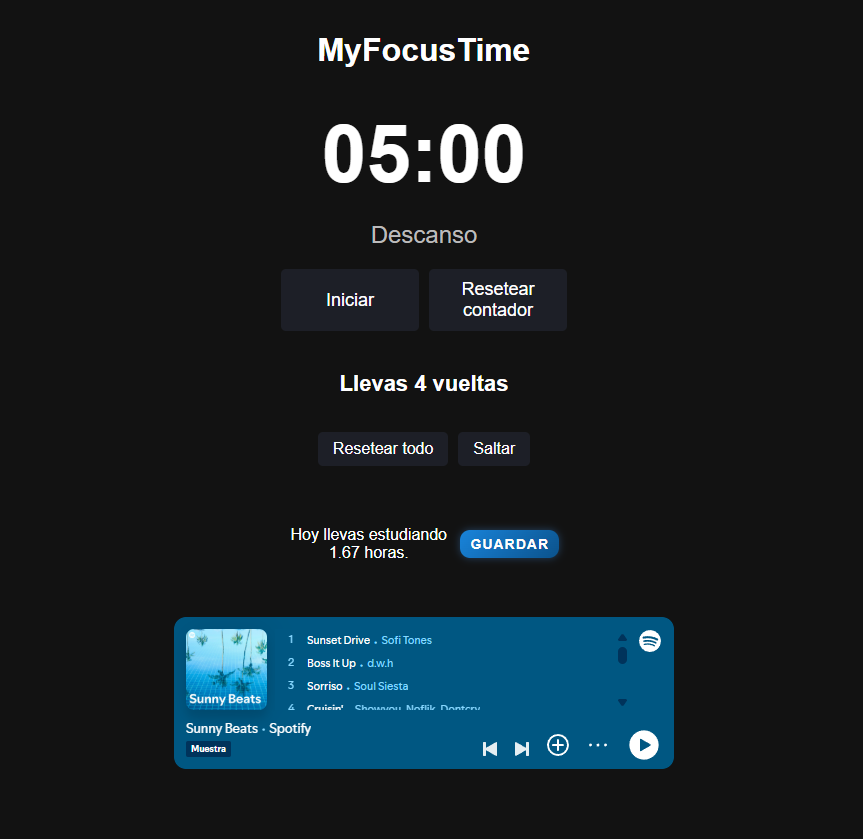
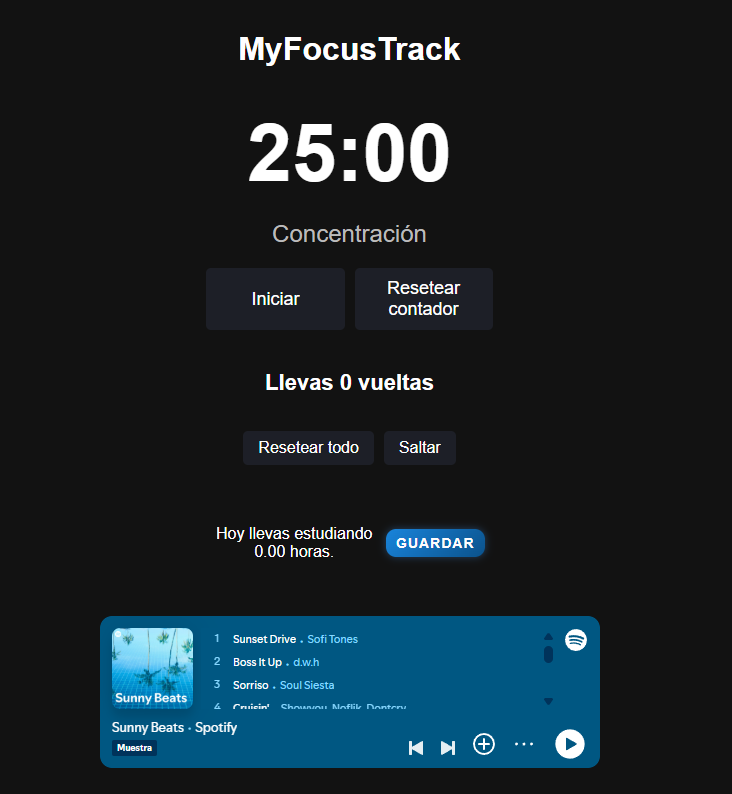
FIX: cambio de nombre

diff --git a/src/pages/pomodoro/pomodoro.html b/src/pages/pomodoro/pomodoro.html
@@ -3,11 +3,11 @@
 
 <head>
   <meta charset="UTF-8" />
-  <title>Pomodoro</title>
+  <title>MyFocusTrack</title>
   <link rel="stylesheet" href="./pomodoro.css">
   <script async src="https://pagead2.googlesyndication.com/pagead/js/adsbygoogle.js?client=ca-pub-7574523768529448"
     crossorigin="anonymous"></script>
-    <link rel="icon" href="../../assets/MyFocusTimeLogo.png">
+    <link rel="icon" href="../../assets/MyFocusTrackLogo.png">
 </head>
 
 <body class="pomodoro-page">
@@ -29,7 +29,7 @@
   </aside>
 
   <main>
-    <h1>MyFocusTime</h1>
+    <h1>MyFocusTrack</h1>
 
     <div class="timer-container">
       <div id="timer">50:00</div>
@@ -65,16 +65,16 @@
     <div class="info-block">
       <h2>Guardando tu tiempo de estudio</h2>
       <p>
-        🕒 Al guardar tu horario de estudio, puede tardar unos segundos.  
+         Al guardar tu horario de estudio, puede tardar unos segundos.  
     Esto sucede porque el servidor puede estar inactivo al momento.  
     Por favor, espera mientras se registra.  
     Te avisaremos cuando se haya guardado correctamente.
       </p>
     </div>
     <div class="info-block">
-      <h2>¿Qué es MyFocusTime?</h2>
+      <h2>¿Qué es MyFocusTrack?</h2>
       <p>
-        MyFocusTime es una aplicación de productividad basada en la técnica
+        MyFocusTrack es una aplicación de productividad basada en la técnica
         <strong>Pomodoro</strong>, pero con una diferencia clave:
         <strong>no solo te ayuda a concentrarte, sino que registra tus horas reales de estudio</strong>.
       </p>
@@ -83,7 +83,7 @@
     <div class="info-block">
       <h2>¿Qué la hace diferente?</h2>
       <p>
-        A diferencia de otras apps Pomodoro, MyFocusTime te permite
+        A diferencia de otras apps Pomodoro, MyFocusTrack te permite
         <strong>guardar y visualizar tu tiempo de estudio</strong> de forma clara:
       </p>
 
@@ -100,7 +100,7 @@
   </section>
   <footer class="app-footer">
     <div class="footer-content">
-      <span>© 2025 MyFocusTime</span>
+      <span>© 2025 MyFocusTrack</span>
       <span class="footer-sep">•</span>
       <span>Desarrollado por Guerra</span>
       <span class="footer-sep">•</span>

diff --git a/src/pages/login/login.html b/src/pages/login/login.html
@@ -4,17 +4,17 @@
 <head>
   <meta charset="UTF-8" />
   
-  <title>MyFocusTime</title>
+  <title>MyFocusTrack</title>
   <link rel="stylesheet" href="login.css">
   <script async src="https://pagead2.googlesyndication.com/pagead/js/adsbygoogle.js?client=ca-pub-7574523768529448"
     crossorigin="anonymous"></script>
-    <link rel="icon" href="../../assets/MyFocusTimeLogo.png">
+    <link rel="icon" href="../../assets/MyFocusTrackLogo.png">
 </head>
 
 <body>
 
   <main>
-    <h1>MyFocusTime</h1>
+    <h1>MyFocusTrack</h1>
     <section class="login-container">
       <h2>Iniciar Sesión</h2>
 
@@ -56,9 +56,9 @@
 
   <div class="info-block">
     <div class="info-text">
-      <h2>¿Qué es MyFocusTime?</h2>
+      <h2>¿Qué es MyFocusTrack?</h2>
       <p>
-        MyFocusTime es una aplicación de productividad basada en la técnica
+        MyFocusTrack es una aplicación de productividad basada en la técnica
         <strong>Pomodoro</strong>, pero con una diferencia clave:
         <strong>no solo te ayuda a concentrarte, sino que registra tus horas reales de estudio</strong>.
       </p>
@@ -72,7 +72,7 @@
   <div class="info-text">
     <h2>¿Qué la hace diferente?</h2>
     <p>
-      A diferencia de otras apps Pomodoro, MyFocusTime te permite
+      A diferencia de otras apps Pomodoro, MyFocusTrack te permite
       <strong>guardar y visualizar tu tiempo de estudio</strong> de forma clara:
     </p>
     <ul>
@@ -100,7 +100,7 @@
 
   <footer class="app-footer">
     <div class="footer-content">
-      <span>© 2025 MyFocusTime</span>
+      <span>© 2025 MyFocusTrack</span>
       <span class="footer-sep">•</span>
       <span>Desarrollado por Guerra</span>
       <span class="footer-sep">•</span>

diff --git a/src/pages/register/register.html b/src/pages/register/register.html
@@ -5,13 +5,13 @@
   <meta charset="UTF-8">
   <meta name="viewport" content="width=device-width, initial-scale=1.0">
   <link rel="stylesheet" href="register.css">
-  <link rel="icon" href="../../assets/MyFocusTimeLogo.png">
-  <title>MyFocusTime</title>
+  <link rel="icon" href="../../assets/MyFocusTrackLogo.png">
+  <title>MyFocusTrack</title>
 </head>
 
 <body>
   <main>
-    <h1>MyFocusTime</h1>
+    <h1>MyFocusTrack</h1>
     <section class="register-container">
       <h2>Crear Cuenta</h2>
 
@@ -60,9 +60,9 @@
 
   <div class="info-block">
     <div class="info-text">
-      <h2>¿Qué es MyFocusTime?</h2>
+      <h2>¿Qué es MyFocusTrack?</h2>
       <p>
-        MyFocusTime es una aplicación de productividad basada en la técnica
+        MyFocusTrack es una aplicación de productividad basada en la técnica
         <strong>Pomodoro</strong>, pero con una diferencia clave:
         <strong>no solo te ayuda a concentrarte, sino que registra tus horas reales de estudio</strong>.
       </p>
@@ -76,7 +76,7 @@
   <div class="info-text">
     <h2>¿Qué la hace diferente?</h2>
     <p>
-      A diferencia de otras apps Pomodoro, MyFocusTime te permite
+      A diferencia de otras apps Pomodoro, MyFocusTrack te permite
       <strong>guardar y visualizar tu tiempo de estudio</strong> de forma clara:
     </p>
     <ul>
@@ -102,7 +102,7 @@
 </section>
   <footer class="app-footer">
     <div class="footer-content">
-      <span>© 2025 MyFocusTime</span>
+      <span>© 2025 MyFocusTrack</span>
       <span class="footer-sep">•</span>
       <span>Desarrollado por Guerra</span>
       <span class="footer-sep">•</span>

diff --git a/src/pages/stats/semana.html b/src/pages/stats/semana.html
@@ -3,10 +3,10 @@
 
 <head>
   <meta charset="UTF-8">
-  <title>Horas esta semana</title>
+  <title>MyFocusTrack</title>
   <link rel="stylesheet" href="../pomodoro/pomodoro.css">
   <link rel="stylesheet" href="../stats/semana.css">
-  <link rel="icon" href="../../assets/MyFocusTimeLogo.png">
+  <link rel="icon" href="../../assets/MyFocusTrackLogo.png">
 </head>
 
 <body>
@@ -59,7 +59,7 @@
   </main>
   <footer class="app-footer">
     <div class="footer-content">
-      <span>© 2025 MyFocusTime</span>
+      <span>© 2025 MyFocusTrack</span>
       <span class="footer-sep">•</span>
       <span>Desarrollado por Guerra</span>
       <span class="footer-sep">•</span>

diff --git a/src/pages/stats/anio.html b/src/pages/stats/anio.html
@@ -3,10 +3,10 @@
 
 <head>
   <meta charset="UTF-8">
-  <title>Horas esta año</title>
+  <title>MyFocusTrack</title>
   <link rel="stylesheet" href="../pomodoro/pomodoro.css">
   <link rel="stylesheet" href="../stats/semana.css">
-  <link rel="icon" href="../../assets/MyFocusTimeLogo.png">
+  <link rel="icon" href="../../assets/MyFocusTrackLogo.png">
 </head>
 
 <body>
@@ -39,7 +39,7 @@
   </main>
   <footer class="app-footer">
     <div class="footer-content">
-      <span>© 2025 MyFocusTime</span>
+      <span>© 2025 MyFocusTrack</span>
       <span class="footer-sep">•</span>
       <span>Desarrollado por Guerra</span>
       <span class="footer-sep">•</span>

diff --git a/src/pages/stats/mes.html b/src/pages/stats/mes.html
@@ -3,10 +3,10 @@
 
 <head>
   <meta charset="UTF-8">
-  <title>Horas este mes</title>
+  <title>MyFocusTrack</title>
   <link rel="stylesheet" href="../pomodoro/pomodoro.css">
   <link rel="stylesheet" href="../stats/semana.css">
-  <link rel="icon" href="../../assets/MyFocusTimeLogo.png">
+  <link rel="icon" href="../../assets/MyFocusTrackLogo.png">
 </head>
 
 <body>
@@ -54,7 +54,7 @@
 
   <footer class="app-footer">
     <div class="footer-content">
-      <span>© 2025 MyFocusTime</span>
+      <span>© 2025 MyFocusTrack</span>
       <span class="footer-sep">•</span>
       <span>Desarrollado por Guerra</span>
       <span class="footer-sep">•</span>

diff --git a/src/pages/settings/settings.html b/src/pages/settings/settings.html
@@ -2,12 +2,12 @@
 <html lang="en">
 
 <head>
+  <title>MyFocusTrack</title>
   <meta charset="UTF-8">
   <meta name="viewport" content="width=device-width, initial-scale=1.0">
   <link rel="stylesheet" href="../pomodoro/pomodoro.css">
   <link rel="stylesheet" href="./settings.css">
-  <title>Settings</title>
-  <link rel="icon" href="../../assets/MyFocusTimeLogo.png">
+  <link rel="icon" href="../../assets/MyFocusTrackLogo.png">
 </head>
 
 <body>
